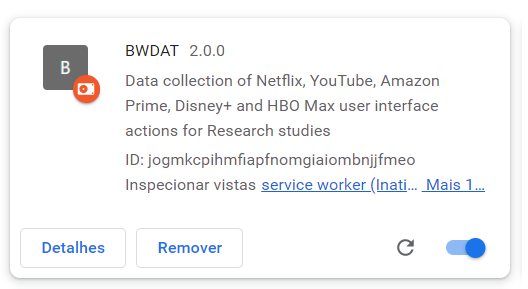
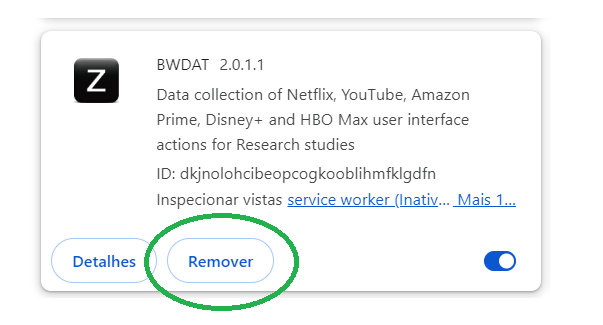
Update read me file

diff --git a/Chrome Extension/netflix.js b/Chrome Extension/netflix.js
@@ -121,7 +121,7 @@ function KeyBoardHandler (event)
 {
   //detect key
   if(event.keyCode == 32){
-	chrome.runtime.sendMessage({type : "SpaceBar", eps_code : eps_code});
+	chrome.runtime.sendMessage({type : "SpaceBar", eps_code : eps_code, streamer : streamer});
 	SendMessage("Pressed Key: Space bar");
   }
 }

diff --git a/README.md b/README.md
@@ -2,29 +2,9 @@
 
 ## Binge-watching Data Analysis Tool
 
-Open access: [https://bwdat.m-iti.org](https://bwdat.m-iti.org)
-
 Closed access: [https://bwdat.unifr.ch](https://bwdat.unifr.ch)
 
-BWDAT Manual: [link](https://docs.google.com/document/d/1PHR8ozNpexhTlUVrrYfdac7oXf_TvnxsRuyPCpVd67M/edit?usp=sharing)
-
-### Paper Publications
-
-Cordeiro, J. A. & Castro, D. & Nisi, V. & Nunes, N. (2021). BWDAT: A research tool for analyzing the consumption of VOD content at home. Addictive Behaviors Reports. 100336. 10.1016/j.abrep.2020.100336. 
-
-72nd Annual ICA Conference: The More You Watch, the More You Get? Effects of Binge-Watching on Entertainment Experiences D.S. Wirz; M. Möri; A. Ort; J. A. Cordeiro; D. Castro Marino; A. Fahr. (Mass Communication Top Paper)
-
-### Paper Citations
-
-Chudasama, D. (2021). Current Thinking & Temperament Scenario in the Society. Omni Science: A Multi-disciplinary Journal, 11(1), 12-15p.
-
-Huang, Y., Lv, Z., & Sui, Z. (2021, October). Where Should Existing Video Streaming Platforms Improve: A Comparative Analysis of Netflix and IQiyi. In 2021 International Conference on Public Relations and Social Sciences (ICPRSS 2021) (pp. 585-592). Atlantis Press.
-
-Bernebée-Say, L. (2021). All You Can Watch! Will You?: The Association of Video on Demand Watching and Feelings of Guilt Over Time-An Experience Sampling Method Post-Hoc Research (Master's thesis, University of Twente).
-
-Flayelle, M., & Lannoy, S. (2021). Binge behaviors: Assessment, determinants, and consequences. Addictive Behaviors Reports, 14.
-
-Patel, D., & Chudasama, D. (2021). A Comparative Study about Consumer Protection in E-commerce. E-Commerce for Future & Trends. 2021; 8 (2): 1–3p. A Comparative Study about Consumer Protection in E-commerce Patel and Chudasama STM Journals, 7-9.
+Contact: [José d'Assis Cordeiro](mailto:josemc.95@gmail.com?subject=[GitHub]%20BWDAT%20Request%20)
 
 ## Highlights
 
@@ -38,8 +18,40 @@ Patel, D., & Chudasama, D. (2021). A Comparative Study about Consumer Protection
 
 * Includes an automatic report generator and data exporter for multiple platforms.
 
+BWDAT Manual: [link](https://docs.google.com/document/d/1PHR8ozNpexhTlUVrrYfdac7oXf_TvnxsRuyPCpVd67M/edit?usp=sharing)
 
-### Server App 2.0.0
+The current 2.0.0 version allows also the collection of streaming actions from YouTube, Disney+, HBO Max and Amazon Video.
+The 1.0.0 version allows the collection of streaming actions from Netflix and the trigger of question form (url based) during different times of the viewing session.
+
+### Paper Publications
+
+Cordeiro, J. A. & Castro, D. & Nisi, V. & Nunes, N. (2021). BWDAT: A research tool for analyzing the consumption of VOD content at home. Addictive Behaviors Reports. 100336. 10.1016/j.abrep.2020.100336. 
+
+72nd Annual ICA Conference: The More You Watch, the More You Get? Effects of Binge-Watching on Entertainment Experiences D.S. Wirz; M. Möri; A. Ort; J. A. Cordeiro; D. Castro Marino; A. Fahr. (Mass Communication Top Paper)
+
+### Paper Citations
+
+Möri, M., & Fahr, A. (2023). Parasocial interactions with media characters: the role of perceived and actual sociodemographic and psychological similarity. Frontiers in Psychology, 14, 1297687.
+
+Wirz, D. S., Möri, M., Ort, A., Cordeiro, J. A., Castro, D., & Fahr, A. (2023). The more you watch, the more you get? Re-examining the effects of binge-watching on entertainment experiences. Journal of Media Psychology: Theories, Methods, and Applications, 35(2), 99.
+
+Khan, M., & Khusro, S. (2023). SmartLog: a smart TV-based lifelogging system for capturing, storing, and visualizing watching behavior. International Journal of Human–Computer Interaction, 1-20.
+
+Gilbert, A., Reinecke, L., Meier, A., Baumgartner, S., & Dietrich, F. (2023). Too amused to stop? Self-control and the disengagement process on Netflix.
+
+Flayelle, M., Elhai, J. D., Maurage, P., Vögele, C., Brevers, D., Baggio, S., & Billieux, J. (2022). Identifying the psychological processes delineating non-harmful from problematic binge-watching: A machine learning analytical approach. Telematics and informatics, 74, 101880.
+
+Chudasama, D. (2021). Current Thinking & Temperament Scenario in the Society. Omni Science: A Multi-disciplinary Journal, 11(1), 12-15p.
+
+Huang, Y., Lv, Z., & Sui, Z. (2021, October). Where Should Existing Video Streaming Platforms Improve: A Comparative Analysis of Netflix and IQiyi. In 2021 International Conference on Public Relations and Social Sciences (ICPRSS 2021) (pp. 585-592). Atlantis Press.
+
+Bernebée-Say, L. (2021). All You Can Watch! Will You?: The Association of Video on Demand Watching and Feelings of Guilt Over Time-An Experience Sampling Method Post-Hoc Research (Master's thesis, University of Twente).
+
+Flayelle, M., & Lannoy, S. (2021). Binge behaviors: Assessment, determinants, and consequences. Addictive Behaviors Reports, 14.
+
+Patel, D., & Chudasama, D. (2021). A Comparative Study about Consumer Protection in E-commerce. E-Commerce for Future & Trends. 2021; 8 (2): 1–3p. A Comparative Study about Consumer Protection in E-commerce Patel and Chudasama STM Journals, 7-9.
+
+### Server App 2.1.1
 
 In the file style.css at "css/" replace <subtitle> with the name of your project.
 
